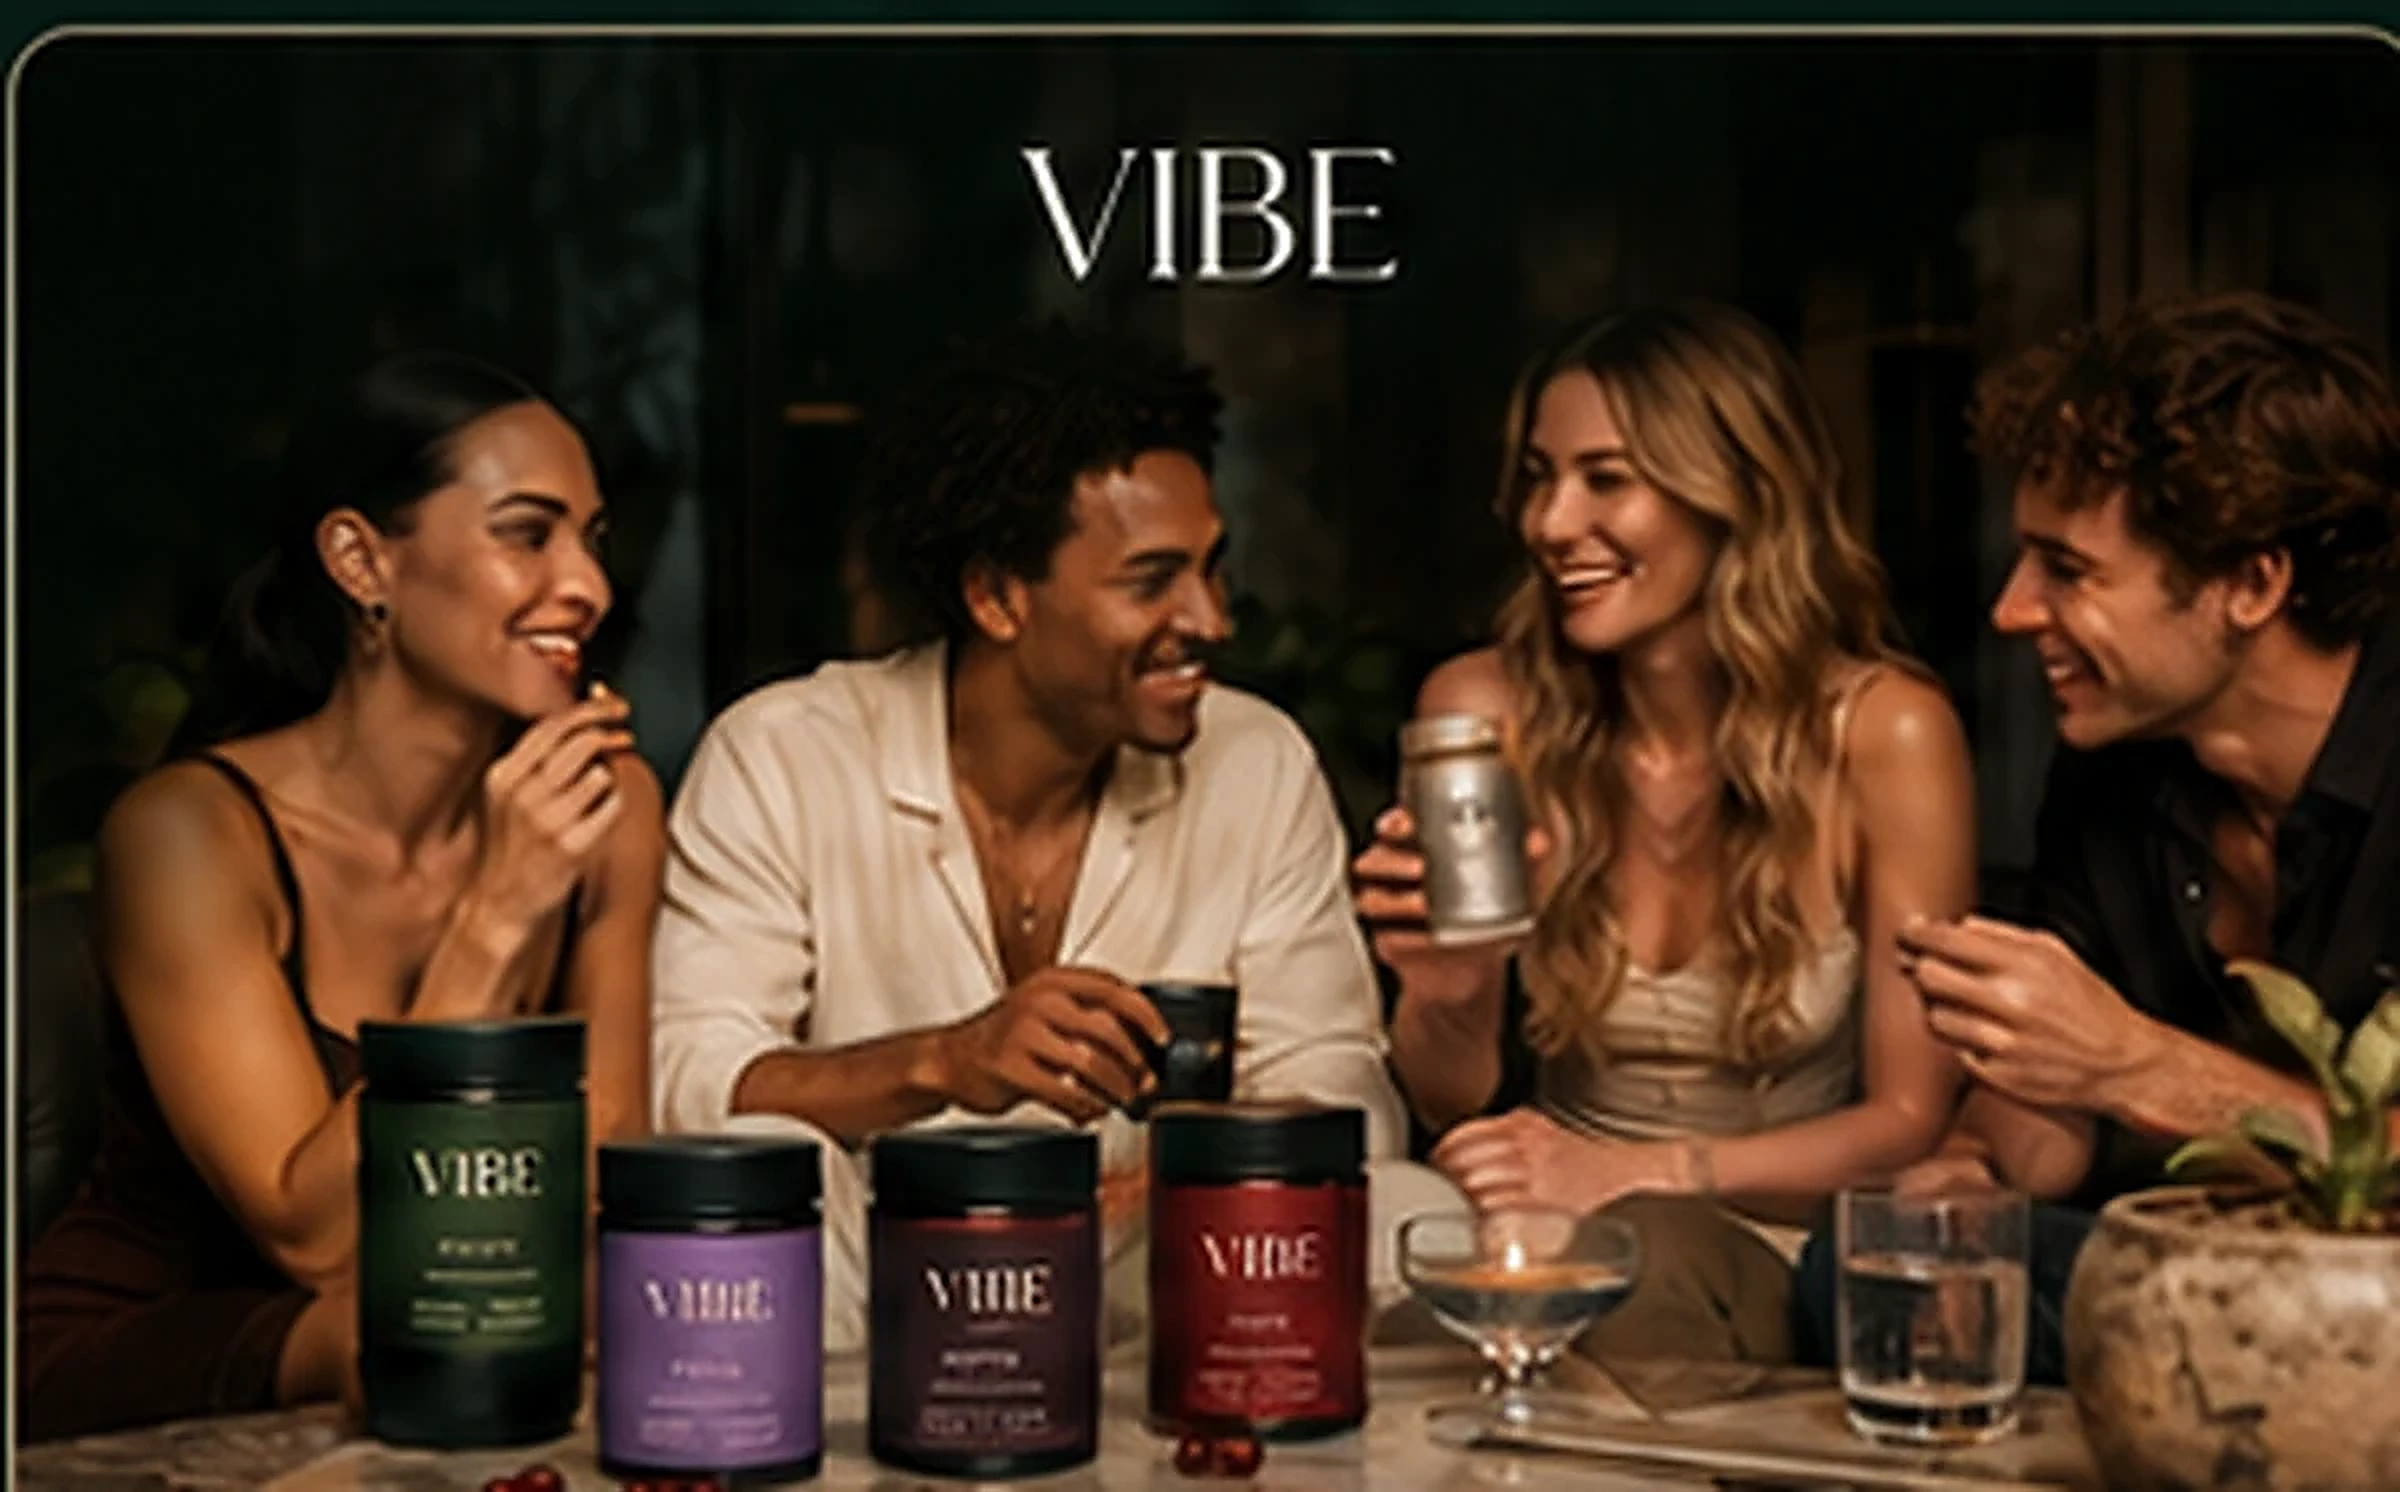
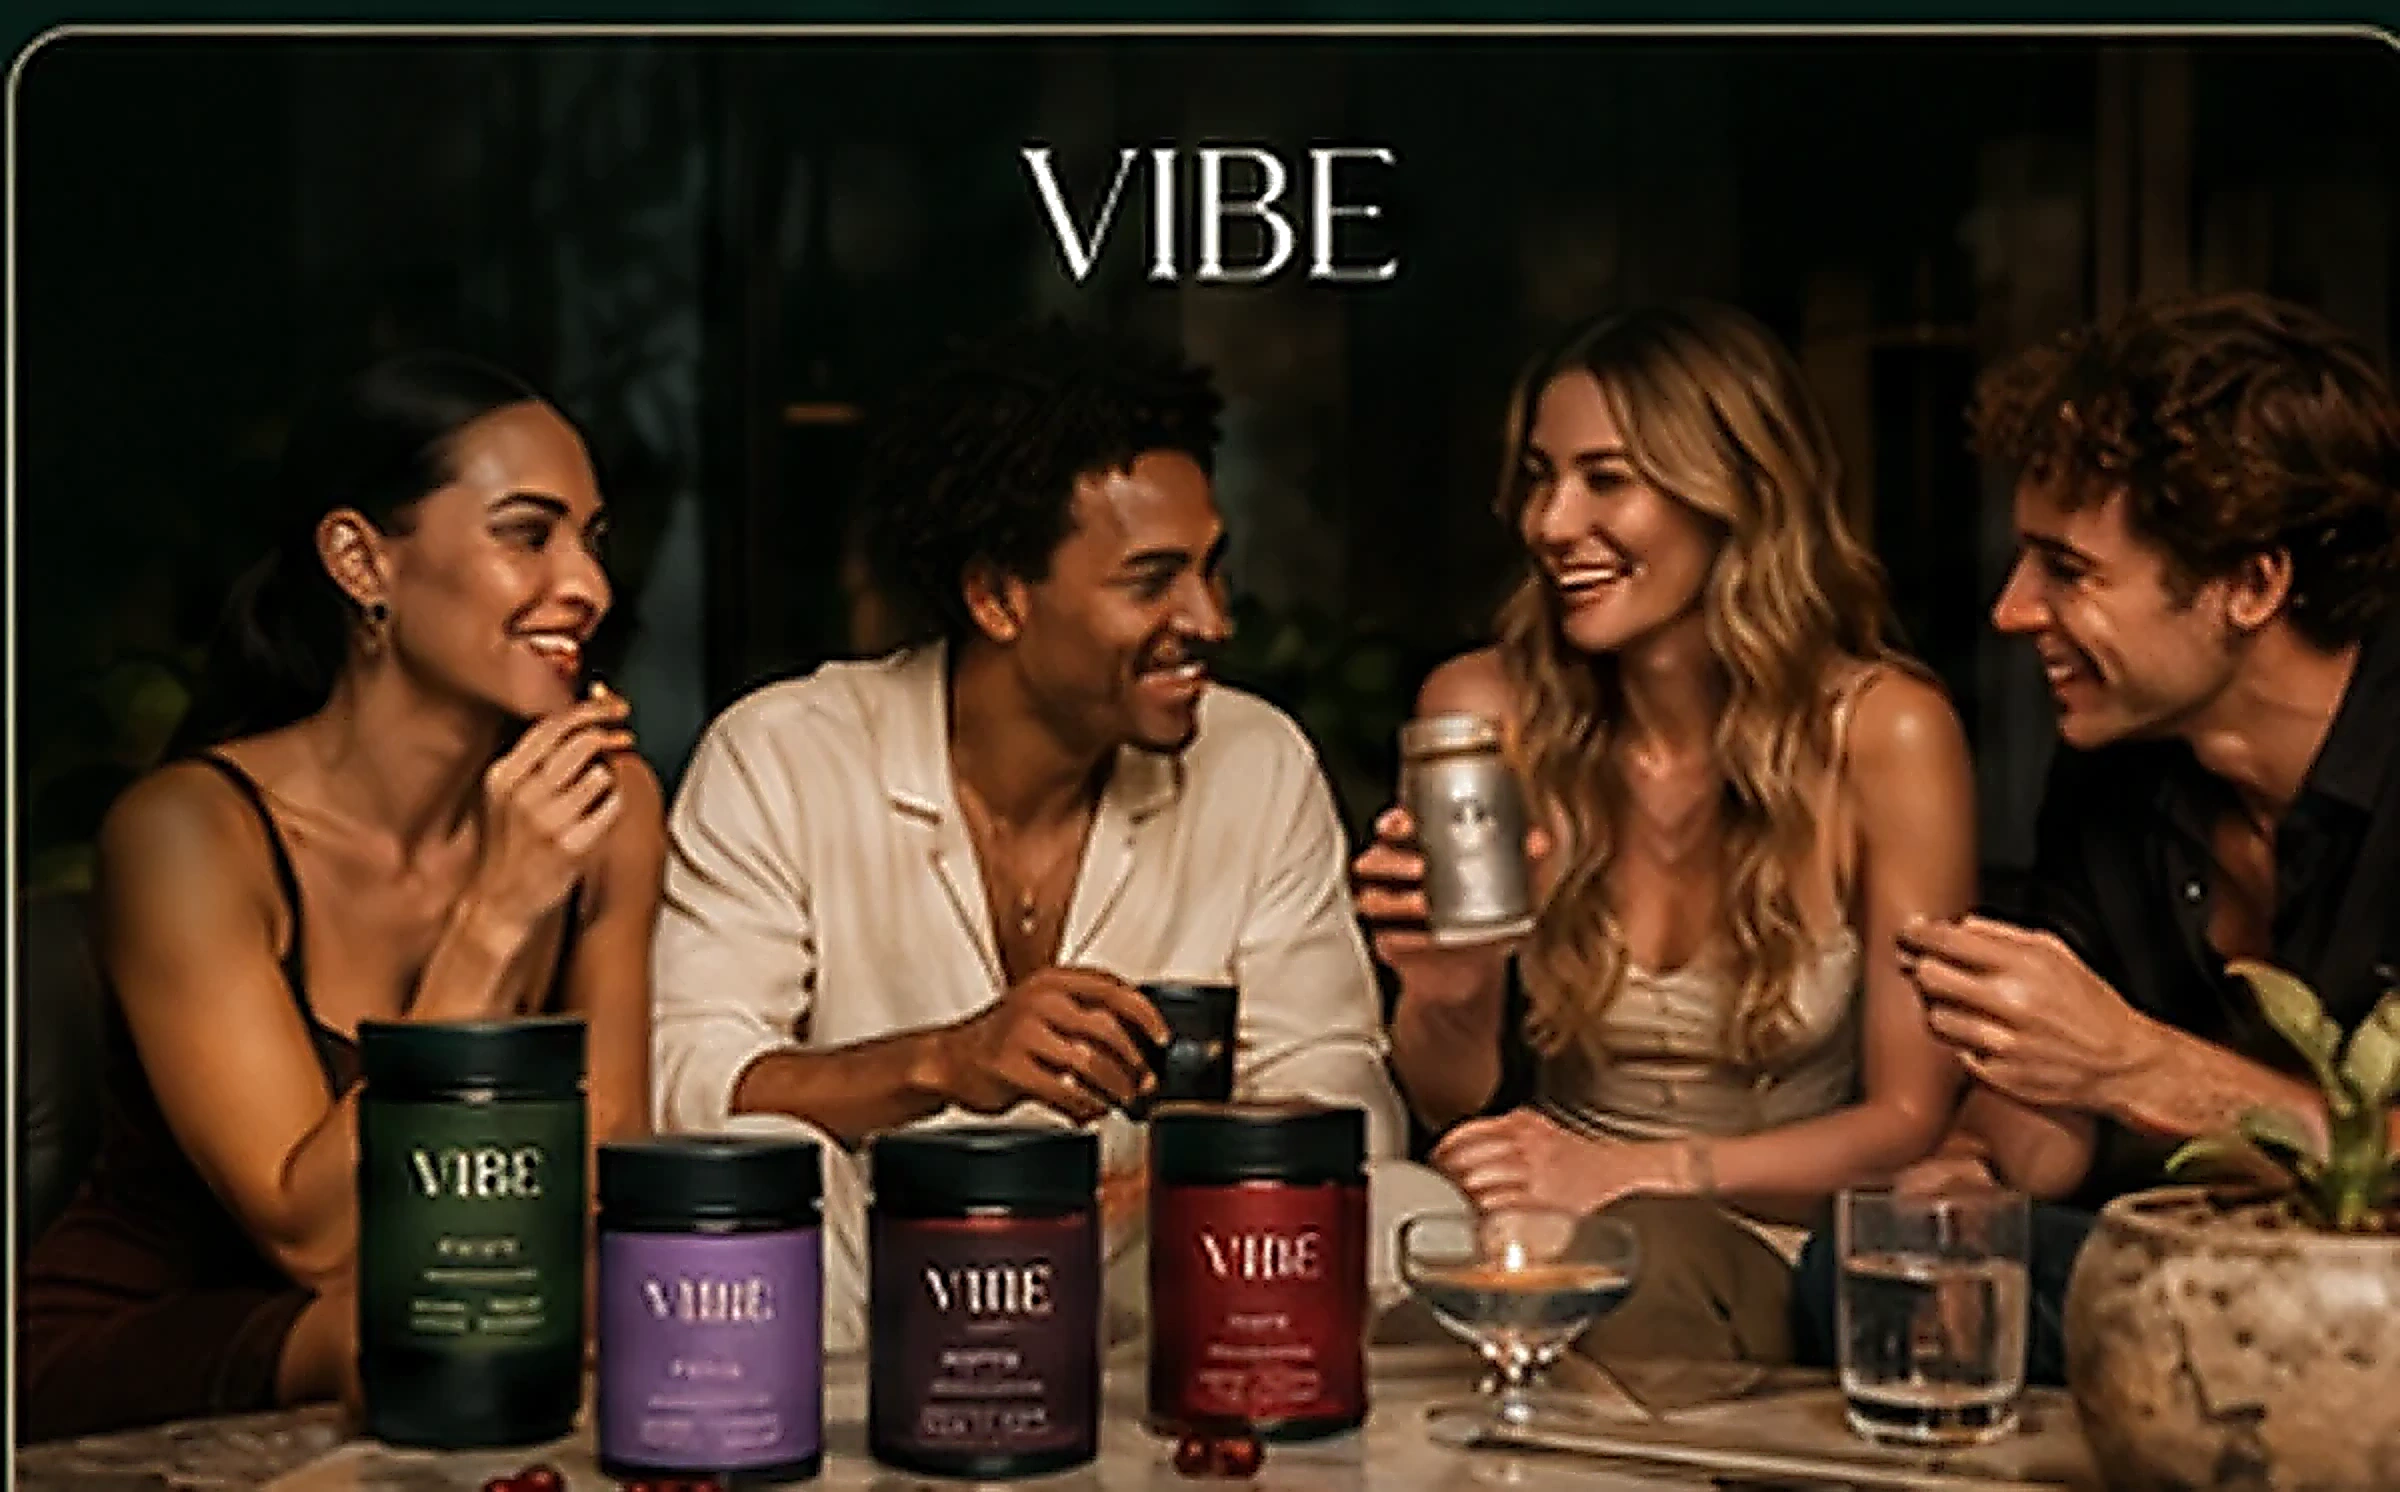
Add files via upload

Changed region(s): [[0.4062, 0.8324, 0.4375, 0.8941], [0.5, 0.8324, 0.5312, 0.8633], [0.1875, 0.7708, 0.2188, 0.8016]]

diff --git a/styles.css b/styles.css
@@ -1,6 +1,6 @@
-@import url('https://fonts.googleapis.com/css2?family=DM+Sans:wght@400;500;600;700&family=Libre+Caslon+Display&display=swap');
+@import url('https://fonts.googleapis.com/css2?family=Libre+Caslon+Display&family=Montserrat:wght@400;500;600;700;800;900&display=swap');
 :root{--forest:#062f27;--forest2:#031f1a;--cream:#f6f1e8;--cream2:#eee7dc;--paper:#fffdf8;--ink:#18201d;--muted:#69716d;--purple:#77627f;--wine:#69251f;--moss:#9caf8f;--gold:#c9b38b;--line:rgba(9,49,40,.13);--radius:26px;--shadow:0 24px 70px rgba(4,34,28,.12)}
-*{box-sizing:border-box}html{scroll-behavior:smooth}body{margin:0;background:var(--cream);color:var(--ink);font-family:'DM Sans',system-ui,sans-serif;line-height:1.45}a{color:inherit;text-decoration:none}img{max-width:100%;display:block}button,input,select,textarea{font:inherit}.container{width:min(1440px,calc(100% - 48px));margin:auto}.serif{font-family:'Libre Caslon Display',Georgia,serif;font-weight:400}.eyebrow{font-size:11px;letter-spacing:.18em;text-transform:uppercase;font-weight:700}.muted{color:var(--muted)}.page{min-height:70vh}
+*{box-sizing:border-box}html{scroll-behavior:smooth}body{margin:0;background:var(--cream);color:var(--ink);font-family:'Montserrat',system-ui,sans-serif;line-height:1.45}a{color:inherit;text-decoration:none}img{max-width:100%;display:block}button,input,select,textarea{font:inherit}.container{width:min(1440px,calc(100% - 48px));margin:auto}.serif{font-family:'Libre Caslon Display',Georgia,serif;font-weight:400}.eyebrow{font-size:11px;letter-spacing:.18em;text-transform:uppercase;font-weight:700}.muted{color:var(--muted)}.page{min-height:70vh}
 .announce{height:30px;background:var(--forest2);color:#efe7d9;overflow:hidden;display:flex;align-items:center;font-size:10px;letter-spacing:.08em}.announce-track{display:flex;gap:42px;white-space:nowrap;min-width:max-content;animation:marquee 28s linear infinite}.announce-track span:after{content:'✦';margin-left:42px;color:var(--gold)}@keyframes marquee{to{transform:translateX(-50%)}}
 .site-header{position:sticky;top:0;z-index:70;background:rgba(4,39,32,.96);color:#f6f1e8;backdrop-filter:blur(16px);border-bottom:1px solid rgba(255,255,255,.1)}.nav{height:74px;display:grid;grid-template-columns:1fr auto 1fr;align-items:center}.brand{font-family:'Libre Caslon Display',Georgia,serif;font-size:38px;letter-spacing:.02em}.nav-links,.nav-actions{display:flex;gap:30px;align-items:center}.nav-links{justify-content:center;font-size:13px}.nav-actions{justify-content:flex-end}.icon-btn{appearance:none;border:0;background:transparent;color:inherit;padding:8px;cursor:pointer;position:relative;font-size:19px}.cart-count{position:absolute;right:-2px;top:0;width:17px;height:17px;border-radius:50%;display:grid;place-items:center;background:var(--cream);color:var(--forest);font-size:9px;font-weight:700}.mobile-menu{display:none}
 .btn{border:0;cursor:pointer;border-radius:999px;padding:14px 22px;font-size:12px;font-weight:700;display:inline-flex;align-items:center;justify-content:center;gap:8px;transition:.22s}.btn:hover{transform:translateY(-2px)}.btn-cream{background:var(--cream);color:var(--forest)}.btn-dark{background:var(--forest);color:white}.btn-outline{border:1px solid currentColor;background:transparent}.btn-purple{background:var(--purple);color:white}.pill{border:1px solid var(--line);border-radius:999px;padding:10px 15px;background:rgba(255,255,255,.55);font-size:12px;cursor:pointer}.pill.active{background:var(--forest);color:#fff;border-color:var(--forest)}
@@ -74,4 +74,34 @@
   .flow-card{min-height:unset;padding:24px;border-radius:22px}
   .flow-card h3{font-size:24px}
   .flow-card p{font-size:14px;max-width:none}
+}
+
+
+/* --- VIBE 2026 typography + original static hero --- */
+:root{--display:'Montserrat',system-ui,sans-serif}
+body{font-family:var(--display);font-weight:500;letter-spacing:-.012em}
+h1,h2,h3,h4{font-family:var(--display);font-weight:800;letter-spacing:-.04em}
+.eyebrow{font-family:var(--display);font-weight:800;letter-spacing:.18em}
+.hero h1,.vibe-card h3,.summary-card h3,.section-head h2,.quiz-copy h3,.editorial-copy h2,.merch-intro h2,.newsletter h2,.auth-message h1,.auth-box h2,.account-hero h1,.admin-top h1,.preview-hero h1,.pdp-title,.pdp-tabs h2,.panel h3,.flow-head h2,.flow-card h3,.review blockquote,.serif{font-family:var(--display);font-weight:800;letter-spacing:-.045em}
+.section-head h2,.flow-head h2,.newsletter h2,.editorial-copy h2,.merch-intro h2{text-transform:uppercase}
+.btn,.pill,.nav-links,.product-name,.product-price,.flow-card h3{font-family:var(--display)}
+.brand,.footer-brand,.checkout-logo{font-family:'Libre Caslon Display',Georgia,serif;font-weight:400;letter-spacing:.02em}
+
+.static-vibe-hero{background:#050706;line-height:0;overflow:hidden;border-bottom:1px solid rgba(255,255,255,.05)}
+.static-vibe-hero-link{display:block;width:100%;position:relative;overflow:hidden}
+.static-vibe-hero picture,.static-vibe-hero img{display:block;width:100%}
+.static-vibe-hero img{height:auto;max-height:none;object-fit:contain;background:#050706;image-rendering:auto}
+.static-vibe-hero-link:after{content:'';position:absolute;inset:0;box-shadow:inset 0 -1px 0 rgba(255,255,255,.04);pointer-events:none}
+
+/* Reference-inspired headline treatment */
+.flow-head .eyebrow{color:#f0c62c}
+.flow-head h2{font-size:clamp(38px,4.5vw,70px);max-width:1050px;margin-inline:auto;line-height:.98}
+.flow-card h3{font-weight:800}
+.flow-no{font-family:var(--display);font-weight:900}
+
+@media(max-width:760px){
+  .static-vibe-hero{overflow:hidden}
+  .static-vibe-hero-link{width:100%}
+  .static-vibe-hero img{width:100%;height:auto}
+  .section-head h2,.flow-head h2,.newsletter h2,.editorial-copy h2,.merch-intro h2{letter-spacing:-.04em}
 }

diff --git a/index.html b/index.html
@@ -11,29 +11,13 @@
   <div id="siteHeader"></div>
   <main class="page">
 
-    <section class="hero hero-premium">
-      <div class="container hero-shell">
-        <div class="hero-copy">
-          <div class="eyebrow">PREMIUM WELLNESS · INTENTIONAL RITUALS</div>
-          <h1>Find Your Vibe.</h1>
-          <p>Premium wellness rituals for every mood, moment and mindset. Designed to feel elevated, conversion-focused and unmistakably VIBE.</p>
-          <div class="hero-actions">
-            <a class="btn btn-cream" href="shop.html">Shop VIBE</a>
-            <a class="btn btn-outline" href="#find">Take the Quiz</a>
-          </div>
-          <div class="hero-proof">
-            <span>Premium product imagery</span>
-            <span>Clear shopping flow</span>
-            <span>Homepage built to convert</span>
-          </div>
-        </div>
-        <div class="hero-visual">
-          <div class="hero-photo-card">
-            <img src="assets/hero-lifestyle.webp" alt="People enjoying VIBE products together">
-            <div class="hero-float">VIBE Rituals · Elevated Feel</div>
-          </div>
-        </div>
-      </div>
+    <section class="static-vibe-hero" aria-label="Find Your Vibe hero">
+      <a href="shop.html" class="static-vibe-hero-link">
+        <picture>
+          <source srcset="assets/vibe-static-hero.webp" type="image/webp">
+          <img src="assets/vibe-static-hero-original.png" alt="Find Your Vibe — premium mushroom products crafted for every mood" fetchpriority="high">
+        </picture>
+      </a>
     </section>
 
     <section class="section-sm" id="find">
